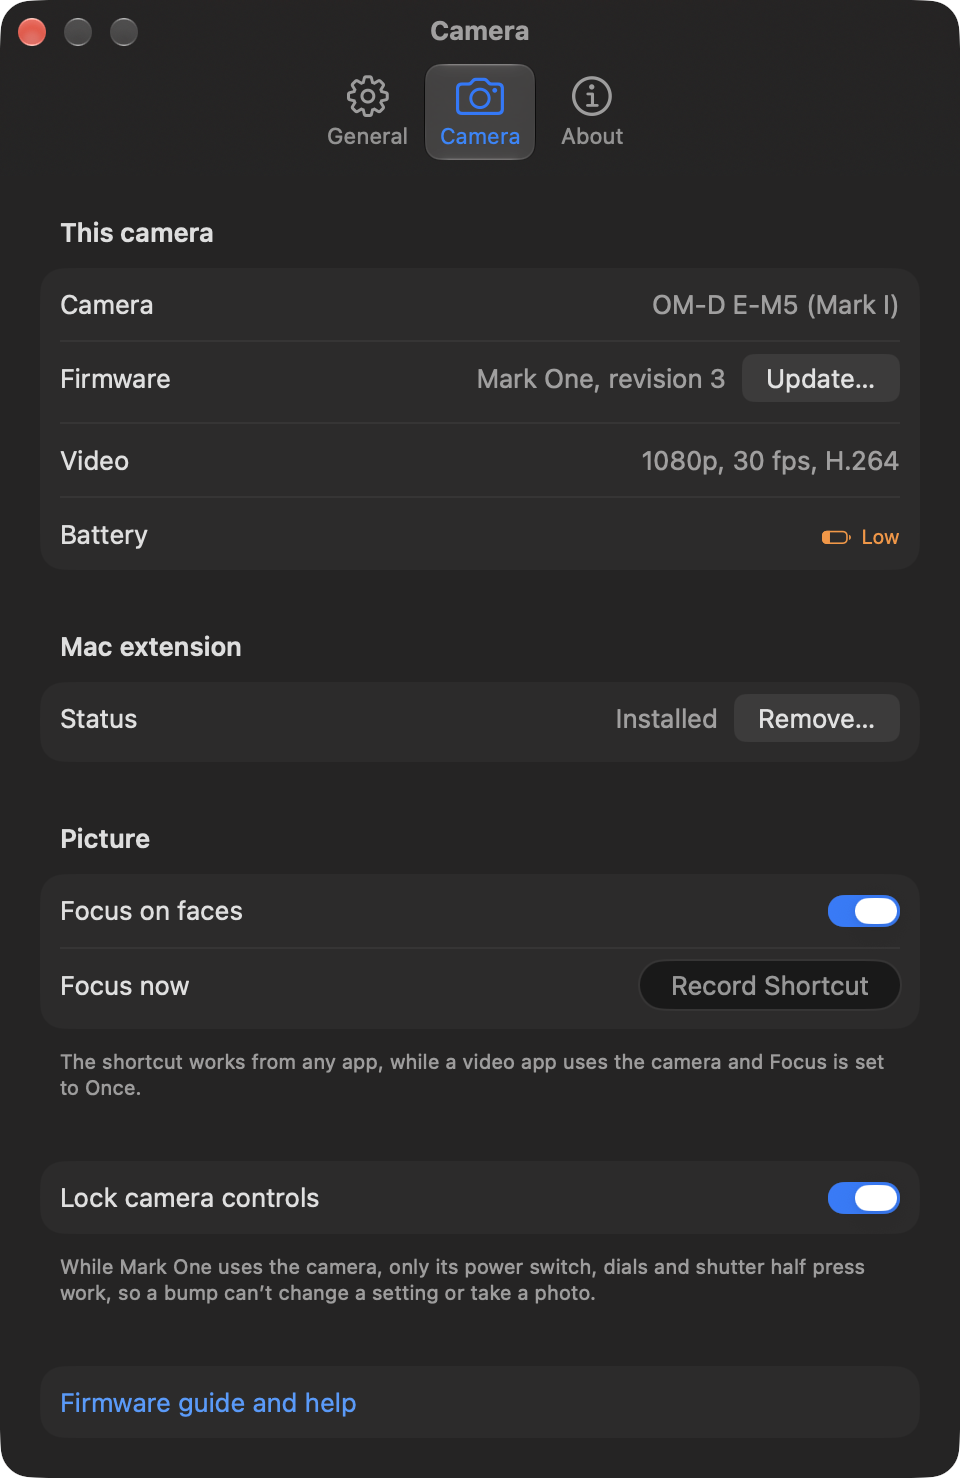
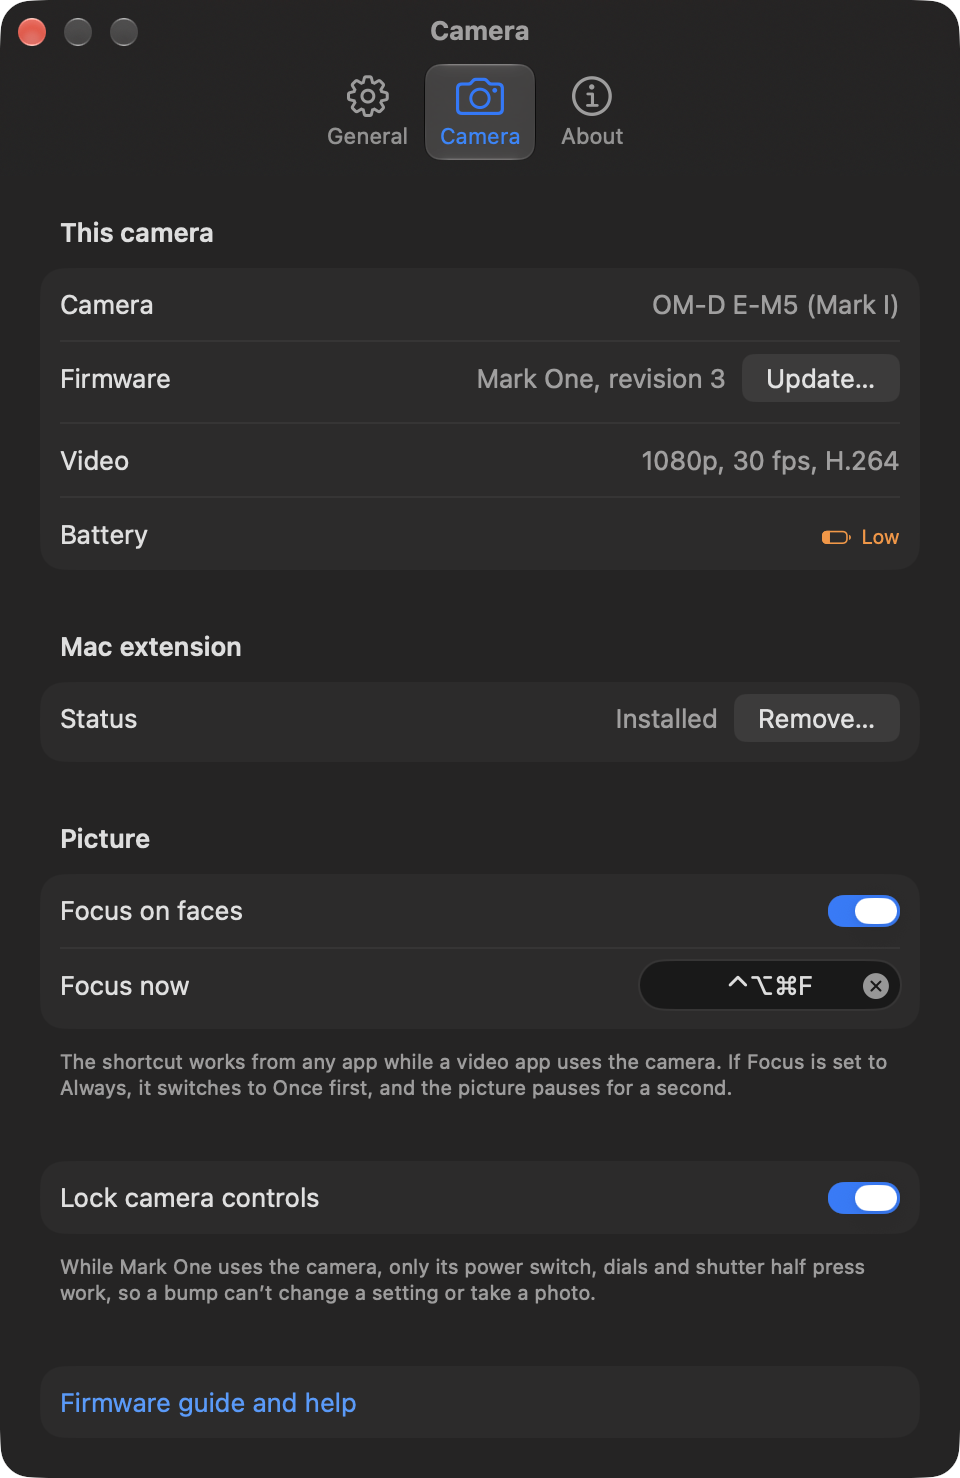
Mark One: The Focus shortcut switches autofocus to Once, then focuses

diff --git a/mac/MarkOne/App/Pipeline.swift b/mac/MarkOne/App/Pipeline.swift
@@ -136,7 +136,7 @@ final class Pipeline: ObservableObject {
     /// Set while the overlay waits for the next picture to clear it.
     private let clearBusyOnFrame = Flag()
 
-    /// Whether Focus does anything now: only while recording, with
+    /// Whether the panel's Focus button works now: only while recording, with
     /// autofocus set to Once, and not while it's already focusing.
     var canFocus: Bool { state == .streaming && !focusing && !continuousFocus }
 
@@ -144,6 +144,15 @@ final class Pipeline: ObservableObject {
     func focus() {
         focusing = true
         focusRequested.value = true
+    }
+
+    /// For the shortcut: focuses while recording, switching autofocus to
+    /// Once first if it's on Always. Switching pauses the picture for about a
+    /// second, and the camera focuses once it's back.
+    func focusOnce() {
+        guard state == .streaming, !focusing else { return }
+        if continuousFocus { continuousFocus = false }
+        focus()
     }
 
     /// Which firmware the connected camera has, once Mark One has checked.
@@ -513,11 +522,15 @@ final class Pipeline: ObservableObject {
         }
         // Focus holds the shutter button half down until the picture
         // settles, and keeps streaming meanwhile.
+        // After the recording restarts, such as to switch autofocus, it waits
+        // for the picture to come back, so the camera is recording again.
         if focusRequested.value {
-            focusRequested.value = false
-            if !applied.focus.active {
-                try Firmware.startFocus(camera)
-                applied.focus.start()
+            if !clearBusyOnFrame.value {
+                focusRequested.value = false
+                if !applied.focus.active {
+                    try Firmware.startFocus(camera)
+                    applied.focus.start()
+                }
             }
         } else if applied.focus.active && applied.focus.done {
             applied.focus.stop()

diff --git a/mac/MarkOne/App/Views/WelcomeView.swift b/mac/MarkOne/App/Views/WelcomeView.swift
@@ -443,7 +443,7 @@ struct WelcomeView: View {
                     HStack(alignment: .firstTextBaseline, spacing: 12) {
                         VStack(alignment: .leading, spacing: 2) {
                             Text("Focus shortcut")
-                            Text("Focuses the camera from any app, when Focus is set to Once.")
+                            Text("Focuses the camera from any app, and sets Focus to Once.")
                                 .font(.callout)
                                 .foregroundStyle(.secondary)
                                 .fixedSize(horizontal: false, vertical: true)

diff --git a/mac/MarkOne/App/Views/SettingsView.swift b/mac/MarkOne/App/Views/SettingsView.swift
@@ -129,7 +129,7 @@ private struct CameraSettings: View {
             } header: {
                 Text("Picture")
             } footer: {
-                Text("The shortcut works from any app, while a video app uses the camera and Focus is set to Once.")
+                Text("The shortcut works from any app while a video app uses the camera. If Focus is set to Always, it switches to Once first, and the picture pauses for a second.")
                     .font(.caption)
                     .foregroundStyle(.secondary)
                     .fixedSize(horizontal: false, vertical: true)

diff --git a/mac/MarkOne/App/Shortcuts.swift b/mac/MarkOne/App/Shortcuts.swift
@@ -12,8 +12,7 @@ extension KeyboardShortcuts.Name {
 enum Shortcuts {
     static func start(_ pipeline: Pipeline) {
         KeyboardShortcuts.onKeyUp(for: .focus) { [weak pipeline] in
-            guard let pipeline, pipeline.canFocus else { return }
-            pipeline.focus()
+            pipeline?.focusOnce()
         }
     }
 }
